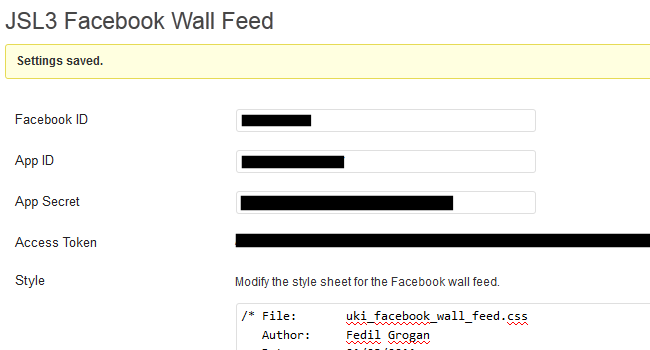
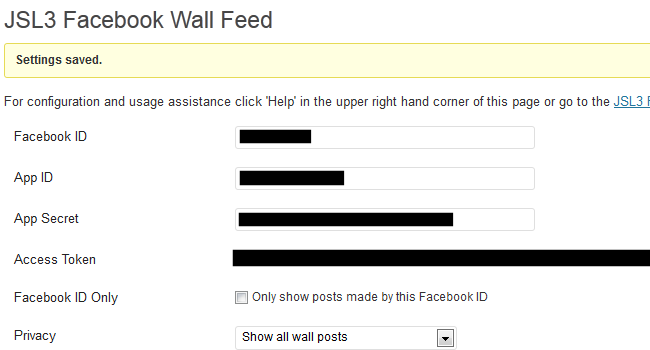
Added contextual help and better error handling.  Also tested on WordPress 3.3.
git-svn-id: https://plugins.svn.wordpress.org/jsl3-facebook-wall-feed/trunk@473062 b8457f37-d9ea-0310-8a92-e5e31aec5664

diff --git a/jsl3-facebook-wall-feed.php b/jsl3-facebook-wall-feed.php
@@ -91,17 +91,252 @@ if ( class_exists( 'JSL3_Facebook_Wall_Feed' ) )
  */
 if ( ! function_exists( 'jsl3_facebook_wall_feed_ap' ) ) {
     function jsl3_facebook_wall_feed_ap() {
+        global $jsl3_fwf_plugin_hook;
         global $jsl3_fwf;
+
         if ( ! isset( $jsl3_fwf ) )
             return;
 
         if ( function_exists( 'add_options_page' ) ) {
-            add_options_page(
+            $jsl3_fwf_plugin_hook = add_options_page(
                 JSL3_FWF_TITLE,
                 JSL3_FWF_TITLE,
                 'manage_options',
                 JSL3_FWF_SLUG,
                 array( &$jsl3_fwf, 'print_admin_page' ) );
+    
+            if ( get_bloginfo( 'version' ) >= 3.3 )
+                add_action( "load-$jsl3_fwf_plugin_hook",
+                    'jsl3_fwf_help_tabs' );
+            else
+                add_filter( 'contextual_help', 'jsl3_fwf_help', 10, 3 );
+    
+        }
+    }   
+}
+
+// }}}
+// {{{ jsl3_fwf_print_menu()
+
+/**
+ * Print help menu
+ *
+ * Prints the contextual help menu.
+ *
+ * @access public
+ * @since Method available since Release 1.1
+ */
+if ( ! function_exists( 'jsl3_fwf_print_menu' ) ) {
+    function jsl3_fwf_print_menu() {
+
+        return '<h2 id="jsl3_fwf_top">Menu</h2>' .
+               '<ul>' .
+               '  <li><a href="#jsl3_fwf_config">Configuration</a></li>' .
+               '  <li><a href="#jsl3_fwf_widget">Widget Usage</a></li>' .
+               '  <li><a href="#jsl3_fwf_short">Shortcode Usage</a></li>' .
+               '</ul>';
+    
+    }
+}
+
+// }}}
+// {{{ jsl3_fwf_print_config()
+
+/**
+ * Print the configuration help page
+ *
+ * Prints the configuration contextual help page.
+ *
+ * @access public
+ * @since Method available since Release 1.1
+ */
+if ( ! function_exists( 'jsl3_fwf_print_config' ) ) {
+    function jsl3_fwf_print_config() {
+
+        return '<ol>' .
+               '  <li><a href="https://developers.facebook.com/apps">Create your Facebook App</a>.</li>' .
+               '  <li>' .
+               '    <strong>Allow</strong> Developer to access your basic information.<br />' .
+               '    <img title="Allow Developer to access your basic information." src="' . JSL3_FWF_PLUGIN_URL . '/screenshot-2.png" alt="Allow Developer to access your basic information."  />' .
+               '  </li>' .
+               '  <li>' .
+               '    Click <strong>Create New App</strong>.<br />' .
+               '    <img title="Click Create New App." src="' . JSL3_FWF_PLUGIN_URL . '/screenshot-3.png" alt="Click Create New App." />' .
+               '  </li>' .
+               '  <li>' .
+               '    Enter any <strong>App Display Name</strong> and <strong>App Namespace</strong>. I suggest using the name of your blog. Agree to the Facebook Platform Policies and click <strong>Continue</strong>. You will be prompted with a security check.<br />' .
+               '    <img title="Enter any App Display Name and App Namespace." src="' . JSL3_FWF_PLUGIN_URL . '/screenshot-4.png" alt="Enter any App Display Name and App Namespace." />' .
+               '  </li>' .
+               '  <li>' .
+               '    On your App page, enter your <strong>App Domain</strong>. Under <strong>Select how your app integrates with Facebook</strong> click <strong>Website</strong> and enter your <strong>Site URL</strong>. Then save your changes.<br />' .
+               '    <img title="On your App page, enter your App Domain. Under Select how your app integrates with Facebook click Website and enter your Site URL." src="' . JSL3_FWF_PLUGIN_URL . '/screenshot-5.png" alt="On your App page, enter your App Domain. Under Select how your app integrates with Facebook click Website and enter your Site URL." />' .
+               '  </li>' .
+               '  <li>' .
+               '    Record your <strong>App ID</strong> and <strong>App Secret</strong>. You will need these later.' .
+               '  </li>' .
+               '  <li>' .
+               '    Go to <strong>JSL3 Facebook Wall Feed</strong> under <strong>Settings</strong> on the Dashboard menu.<br />' .
+               '    <img title="Go to JSL3 Facebook Wall Feed under Settings on the Dashboard menu." src="' . JSL3_FWF_PLUGIN_URL . '/screenshot-6.png" alt="Go to JSL3 Facebook Wall Feed under Settings on the Dashboard menu." />' .
+               '  </li>' .
+               '  <li>' .
+               '    Enter your <strong>Facebook ID</strong>. This is the number at the end of your Facebook profile URL.<br />' .
+               '    <img title="Enter your Facebook ID." src="' . JSL3_FWF_PLUGIN_URL . '/screenshot-7.png" alt="Enter your Facebook ID." /><br />' .
+               '    Enter the <strong>App ID</strong> and <strong>App Secret</strong> you recorded earlier. Click <strong>Save Changes</strong>.' .
+               '  </li>' .
+               '  <li>' .
+               '    You will be redirected to Facebook. You may be prompted to <strong>Log In</strong> a couple of times.<br />' .
+               '    <img title="You will be redirected to Facebook. You may be prompted to Log In a couple of times." src="' . JSL3_FWF_PLUGIN_URL . '/screenshot-8.png" alt="You will be redirected to Facebook. You may be prompted to Log In a couple of times." />' .
+               '  </li>' .
+               '  <li>' .
+               '    Allow your Facebook App to have access to your Facebook profile.<br />' .
+               '    <img title="Allow your Facebook App to have access to your Facebook profile." src="' . JSL3_FWF_PLUGIN_URL . '/screenshot-9.png" alt="Allow your Facebook App to have access to your Facebook profile." />' .
+               '  </li>' .
+               '  <li>' .
+               '    You will be returned to the JSL3 Facebook Wall Feed settings page with your <strong>Access Token</strong>.<br />' .
+               '    <img title="You will be returned to the JSL3 Facebook Wall Feed settings page with your Access Token." src="' . JSL3_FWF_PLUGIN_URL . '/screenshot-10.png" alt="You will be returned to the JSL3 Facebook Wall Feed settings page with your Access Token." />' .
+               '  </li>' .
+               '</ol>';
+
+    }
+}
+
+// }}}
+// {{{ jsl3_fwf_print_widget()
+
+/**
+ * Print the widget usage help page
+ *
+ * Prints the widget usage contextual help page.
+ *
+ * @access public
+ * @since Method available since Release 1.1
+ */
+if ( ! function_exists( 'jsl3_fwf_print_widget' ) ) {
+    function jsl3_fwf_print_widget() {
+
+        return '<ol>' .
+               '  <li>' .
+               '    Go to <strong>Widgets</strong> under <strong>Appearance</strong> on the Dashboard menu.' .
+               '  </li>' .
+               '  <li>' .
+               '    Drag the <strong>JSL3 Facebook Wall Feed</strong> widget to the sidebar of your choice.<br />' .
+               '    <img title="Drag the JSL3 Facebook Wall Feed widget to the sidebar of your choice." src="' . JSL3_FWF_PLUGIN_URL . '/screenshot-11.png" alt="Drag the JSL3 Facebook Wall Feed widget to the sidebar of your choice." />' .
+               '  </li>' .
+               '  <li>' .
+               '    Give the widget a title (or leave it blank) and enter how many posts you want to get from your wall. Then click <strong>Save</strong>.<br />' .
+               '    <img title="Give the widget a title (or leave it blank) and enter how many posts you want to get from your wall." src="' . JSL3_FWF_PLUGIN_URL . '/screenshot-12.png" alt="Give the widget a title (or leave it blank) and enter how many posts you want to get from your wall." />' .
+               '  </li>' .
+               '  <li>' .
+               '    Go check out your Facebook Wall Feed on your WordPress site.<br />' .
+               '    <img title="Go check out your Facebook Wall Feed on your WordPress site." src="' . JSL3_FWF_PLUGIN_URL . '/screenshot-13.png" alt="Go check out your Facebook Wall Feed on your WordPress site." />' .
+               '  </li>' .
+               '</ol>';
+
+    }
+}
+
+// }}}
+// {{{ jsl3_fwf_print_short()
+
+/**
+ * Print the shortcode usage help page
+ *
+ * Prints the shortcode usage contextual help page.
+ *
+ * @access public
+ * @since Method available since Release 1.1
+ */
+if ( ! function_exists( 'jsl3_fwf_print_short' ) ) {
+    function jsl3_fwf_print_short() {
+
+        return '<ol>' .
+               '  <li>' .
+               '    Add the shortcode <strong>[jsl3_fwf]</strong> or <strong>[jsl3_fwf limit="1"]</strong> to the <strong>HTML</strong> view of a post or page.<br />' .
+               '    <img title="Add the shortcode [jsl3_fwf] or [jsl3_fwf limit="1"] to the HTML view of a post or page." src="' . JSL3_FWF_PLUGIN_URL . '/screenshot-14.png" alt="Add the shortcode [jsl3_fwf] or [jsl3_fwf limit="1"] to the HTML view of a post or page." />' .
+               '  </li>' .
+               '  <li>' .
+               '    View your Facebook Wall Feed on your WordPress post or page.<br />' .
+               '    <img title="View your Facebook Wall Feed on your WordPress post or page." src="' . JSL3_FWF_PLUGIN_URL . '/screenshot-15.png" alt="View your Facebook Wall Feed on your WordPress post or page." />' .
+               '  </li>' .
+               '</ol>';
+
+    }
+}
+
+// }}}
+// {{{ jsl3_fwf_help()
+
+/**
+ * Adds contextual help
+ *
+ * Adds contextual help to the admin page for the plugin on WordPress 3.2.1.
+ *
+ * @param string $contextual_help the existing contextual help.
+ * @param string $screen_id the screen ID.
+ * @param string $screen the screen name.
+ *
+ * @return string the new contextual help
+ *
+ * @access public
+ * @since Method available since Release 1.1
+ */
+if ( ! function_exists( 'jsl3_fwf_help' ) ) {
+    function jsl3_fwf_help( $contextual_help, $screen_id, $screen ) {
+        global $jsl3_fwf_plugin_hook;
+
+        if ( $screen_id == $jsl3_fwf_plugin_hook ) {
+            $contextual_help =
+                jsl3_fwf_print_menu() .
+                '<h2 id="jsl3_fwf_config">Configuration</h2>' .
+                jsl3_fwf_print_config() .
+                '<a href="#jsl3_fwf_top">Back to top</a><br /><br />' .
+                '<h2 id="jsl3_fwf_widget">Widget Usage</h2>' .
+                jsl3_fwf_print_widget() .
+                '<a href="#jsl3_fwf_top">Back to top</a><br /><br />' .
+                '<h2 id="jsl3_fwf_short">Shortcode Usage</h2>' .
+                jsl3_fwf_print_short() .
+                '<a href="#jsl3_fwf_top">Back to top</a><br /><br />' .
+                $contextual_help;
+        }
+
+        return $contextual_help;
+    }   
+}
+
+// }}}
+// {{{ jsl3_fwf_help_tabs()
+
+/**
+ * Adds contextual help
+ *
+ * Adds contextual help to the admin page for the plugin on WordPress 3.3.
+ *
+ * @access public
+ * @since Method available since Release 1.1
+ */
+if ( ! function_exists( 'jsl3_fwf_help_tabs' ) ) {
+    function jsl3_fwf_help_tabs() {
+        global $jsl3_fwf_plugin_hook;
+
+        $screen = get_current_screen();
+
+        if ( $screen->id == $jsl3_fwf_plugin_hook ) {
+
+            $screen->add_help_tab( array(
+                'id' => 'jsl3-fwf-config',
+                'title' => __( 'Configuration', 'JSL3_Facebook_Wall_Feed' ),
+                'content' => jsl3_fwf_print_config() ) );
+
+            $screen->add_help_tab( array(
+                'id' => 'jsl3-fwf-widget',
+                'title' => __( 'Widget Usage', 'JSL3_Facebook_Wall_Feed' ),
+                'content' => jsl3_fwf_print_widget() ) );
+
+            $screen->add_help_tab( array(
+                'id' => 'jsl3-fwf-short',
+                'title' => __( 'Shortcode Usage', 'JSL3_Facebook_Wall_Feed' ),
+                'content' => jsl3_fwf_print_short() ) );
+        
         }
     }   
 }
@@ -116,7 +351,7 @@ if ( ! function_exists( 'jsl3_facebook_wall_feed_ap' ) ) {
  * page.
  *
  * @param array $links an array of plugin links.
- * @param string the basename of the plugin file.
+ * @param string $file the basename of the plugin file.
  *
  * @access public
  * @since Method available since Release 1.0
@@ -157,7 +392,6 @@ if ( isset( $jsl3_fwf ) ) {
     add_action( 'wp_print_styles', array(&$jsl3_fwf, 'enqueue_style' ) );
 
     //Filters
-    //add_filter( 'plugin_action_links', 'jsl3_fwf_plugin_action_links', 10, 2 );
     add_filter( 'plugin_action_links', 'jsl3_fwf_plugin_action_links', 10, 2 );
     
     //Shortcode

diff --git a/php/class-uki-facebook-wall-feed.php b/php/class-uki-facebook-wall-feed.php
@@ -221,11 +221,30 @@ class UKI_Facebook_Wall_Feed {
      * @since Method available since Release 1.0
      */
     function display_fb_wall_feed() {
-        $fb_feed = $this->fb_wall_feed[ 'data' ];
+        if ( isset( $this->fb_wall_feed[ 'data' ] ) ) {
+            $fb_feed = $this->fb_wall_feed[ 'data' ];
+            $is_error = FALSE;
+        } else {
+            $fb_feed = $this->fb_wall_feed[ 'error' ];
+            $is_error = TRUE;
+        }
 
         $result = '<div id="facebook_status_box">' .
                   '  <h2>Facebook Status</h2>' .
                   '  <div id="facebook_canvas">';
+
+        if ( $is_error ) {
+            $result .=
+                  '    <div style="margin: 5px 0 15px; background-color: #FFEBE8; border-color: #CC0000; border-radius: 3px 3px 3px 3px; border-style: solid; border-width: 1px; padding: 0 0.6em;">' .
+                  '      <strong>' .
+                  $fb_feed[ 'type' ] . ': ' . $fb_feed[ 'message' ] .
+                  '      </strong>' .
+                  '    </div>' .
+                  '  </div>' .
+                  '</div>';
+            
+            return $result;
+        }
 
         // loop through each post in the feed
         for ( $i = 0; $i < count( $fb_feed ); $i++) {

diff --git a/php/class-jsl3-facebook-wall-feed.php b/php/class-jsl3-facebook-wall-feed.php
@@ -521,6 +521,9 @@ if ( ! class_exists( 'JSL3_Facebook_Wall_Feed' ) ) {
 ?>
 <div class=wrap>
   <h2><?php _e( 'JSL3 Facebook Wall Feed', 'JSL3_Facebook_Wall_Feed' ); ?></h2>
+  For configuration and usage assistance click 'Help' in the upper right hand
+  corner of this page or go to the 
+  <a href="http://takanudo.com/jsl3-facebook-wall-feed">JSL3 Facebook Wall Feed</a> page.
   <form method="post" action="<?php echo $_SERVER[ 'REQUEST_URI' ]; ?>">
     <table class="form-table">
       <tbody>
